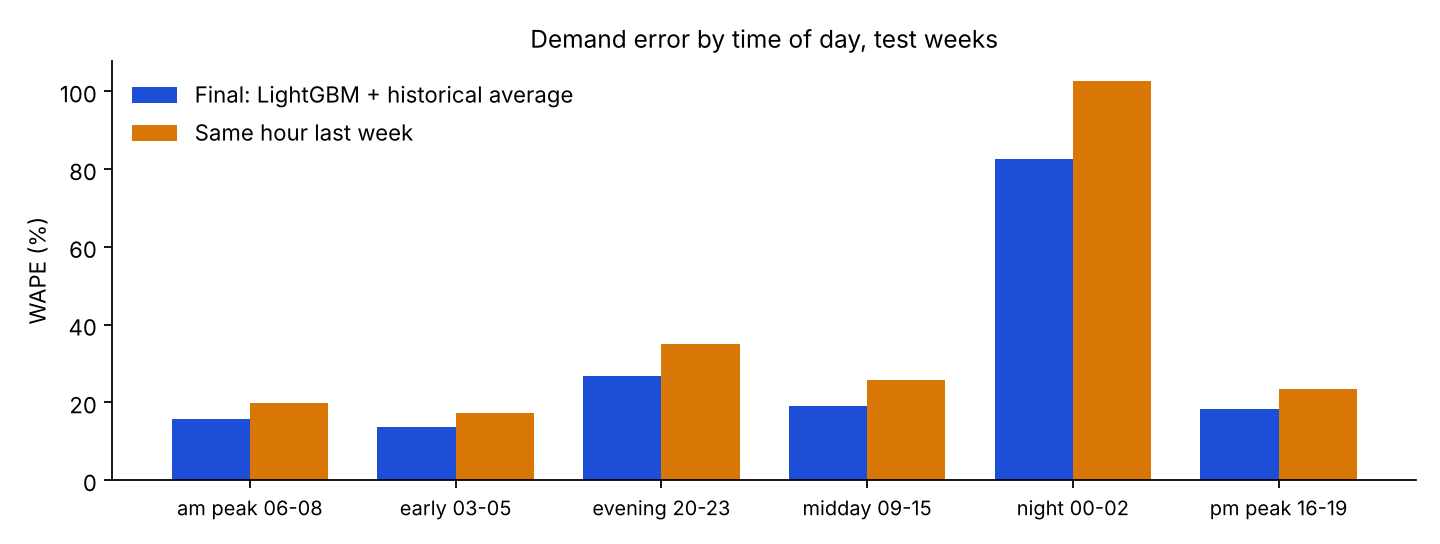
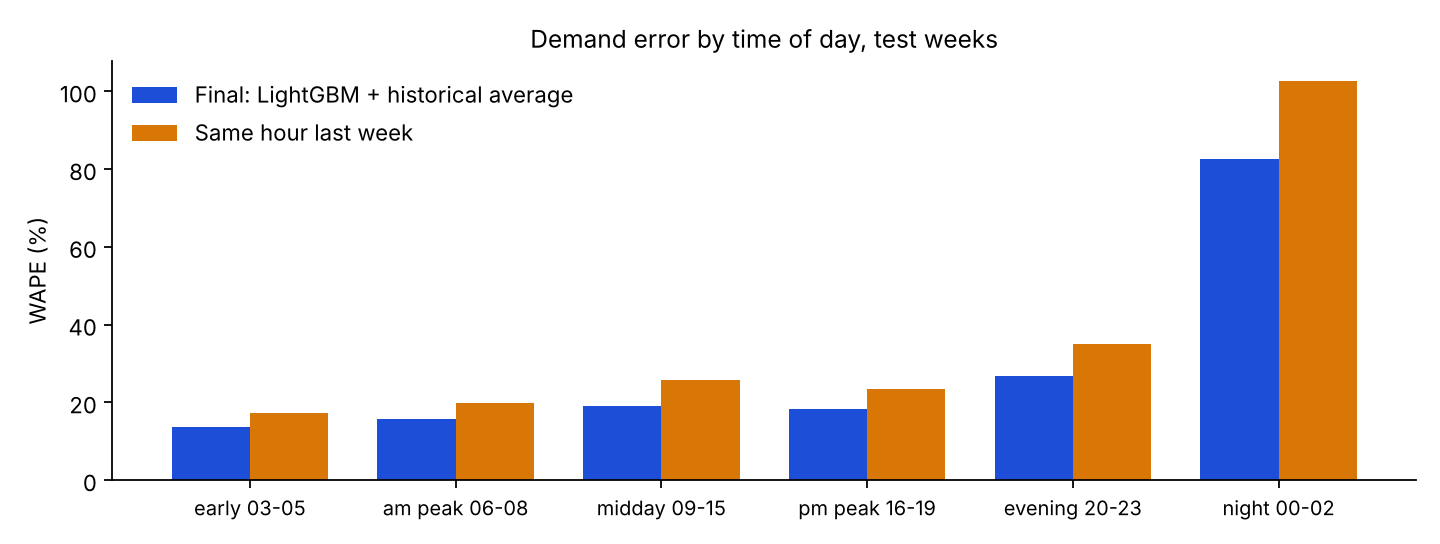
Report and app: chronological time-of-day order, clearer segment labels; README tested versions and backup video
Also notes honestly that at the morning peak and on zero-boarding hours
the historical average or last week is slightly better than the final
forecast (already in the tables).

Claude-Session: https://claude.ai/code/session_01BNmSxnJkkJYvHPob8z9Rs7

diff --git a/src/transit/report.py b/src/transit/report.py
@@ -27,6 +27,15 @@ NAMES = {"ensemble": "Final: LightGBM + historical average", "model": "LightGBM 
          "seasonal_naive": "Same hour last week",
          "dow4_mean": "Mean of last 4 same weekdays", "hist_average": "Historical average"}
 ORDER = ["ensemble", "model", "seasonal_naive", "dow4_mean", "hist_average"]
+PERIOD_ORDER = ["early 03-05", "am peak 06-08", "midday 09-15", "pm peak 16-19", "evening 20-23", "night 00-02"]
+SEG_LABELS = {"True": "regular cell", "False": "non-regular cell"}
+
+
+def ordered(keys) -> list:
+    keys = list(keys)
+    if set(keys) <= set(PERIOD_ORDER):
+        return [k for k in PERIOD_ORDER if k in keys]
+    return keys
 COL = {"ensemble": "#1d4ed8", "model": "#60a5fa", "seasonal_naive": "#d97706", "dow4_mean": "#059669", "hist_average": "#7c3aed"}
 
 
@@ -61,7 +70,7 @@ def fig_wape(metrics: dict) -> None:
 
 def fig_periods(metrics: dict) -> None:
     seg = metrics["targets"]["demand"]["segments_test"]["period"]
-    cats = list(seg["ensemble"])
+    cats = ordered(seg["ensemble"])
     x = np.arange(len(cats))
     fig, ax = plt.subplots(figsize=(9, 3.4))
     for i, k in enumerate(("ensemble", "seasonal_naive")):
@@ -194,8 +203,8 @@ def main() -> None:
 
     def segtab(s):
         rows = ["| Segment | Rows | Final WAPE | Historical avg WAPE | Last-week WAPE |", "| --- | --- | --- | --- | --- |"]
-        for k in s["ensemble"]:
-            rows.append(f"| {k} | {s['ensemble'][k]['n']:,} | {pct(s['ensemble'][k]['wape'])} | "
+        for k in ordered(s["ensemble"]):
+            rows.append(f"| {SEG_LABELS.get(k, k)} | {s['ensemble'][k]['n']:,} | {pct(s['ensemble'][k]['wape'])} | "
                         f"{pct(s['hist_average'][k]['wape'])} | {pct(s['seasonal_naive'][k]['wape'])} |")
         return "\n".join(rows)
 
@@ -298,7 +307,7 @@ Route-directions with the largest total absolute error (final forecast):
 | --- | --- | --- | --- | --- |
 {chr(10).join(f"| {r['route']} | {r['direction']} | {int(r['rows'])} | {pct(r['wape'])} | {pct(r['share_of_total_error'])} |" for r in worst_rd)}
 
-Hours with zero recorded boardings ({zero.get('ensemble', {}).get('n', 0):,} test rows): model MAE
+Hours with zero recorded boardings ({zero.get('ensemble', {}).get('n', 0):,} test rows): final-forecast MAE
 {zero.get('ensemble', {}).get('mae', float('nan')):.2f}, last-week MAE {zero.get('seasonal_naive', {}).get('mae', float('nan')):.2f}.
 
 ![Example](figures/example_route_day.png)

diff --git a/app/streamlit_app.py b/app/streamlit_app.py
@@ -175,7 +175,8 @@ def page_comparison(metrics: dict) -> None:
     c1, c2 = st.columns(2)
     for col, key, title in ((c1, "period", "WAPE by time of day"), (c2, "volume_tercile", "WAPE by route volume")):
         s = seg[key]
-        cats = list(s["ensemble"])
+        order = ["early 03-05", "am peak 06-08", "midday 09-15", "pm peak 16-19", "evening 20-23", "night 00-02"]
+        cats = [c for c in order if c in s["ensemble"]] if key == "period" else list(s["ensemble"])
         fig = go.Figure([go.Bar(name=NAMES[p], x=cats, y=[s[p][c]["wape"] for c in cats],
                                 marker_color=COLOURS[p]) for p in ("ensemble", "hist_average", "seasonal_naive")])
         fig.update_layout(barmode="group", height=320, title=title, yaxis_tickformat=".0%",

diff --git a/README.md b/README.md
@@ -52,7 +52,7 @@ Full provenance, licence and column definitions are in [docs/DATA.md](docs/DATA.
 
 ## Quick start
 
-Requires Python 3.10 or newer. Works in Google Colab, on Linux, and on Windows (PowerShell).
+Requires Python 3.10 or newer. Works in Google Colab, on Linux, and on Windows (PowerShell). Tested with Python 3.11, 3.12 (GitHub Actions) and 3.13; pandas 2.2 and 3.0; LightGBM 4.7, scikit-learn 1.9, Streamlit 1.66.
 
 ```bash
 git clone https://github.com/jayvaghela779/cs3011-public-transport-demand-occupancy.git
@@ -72,7 +72,7 @@ python -m transit.models.run
 # 4. Write reports/RESULTS.md and figures (stops if numbers disagree)
 python -m transit.report
 
-# 5. Run the tests (68), then the dashboard
+# 5. Run the tests, then the dashboard
 pytest
 streamlit run app/streamlit_app.py
 ```
@@ -81,7 +81,7 @@ The dashboard reads only committed files, so `pip install -r requirements.txt` a
 
 ## Deployment (free)
 
-On [Streamlit Community Cloud](https://share.streamlit.io): sign in with GitHub, choose **Create app**, pick this repository, branch `main`, main file `app/streamlit_app.py`, then deploy. The app sleeps after 12 hours without visitors; open it about 30 minutes before a demo to wake it. **Fallback:** run it locally with the command above. A recorded demo video is the last resort.
+On [Streamlit Community Cloud](https://share.streamlit.io): sign in with GitHub, choose **Create app**, pick this repository, branch `main`, main file `app/streamlit_app.py`, then deploy. The app sleeps after 12 hours without visitors; open it about 30 minutes before a demo to wake it. **Fallback:** run it locally with the command above. A recorded 68-second walkthrough of all five pages is the last resort; keep it on the demo laptop.
 
 Raw files are cached in `data/raw/` and are never committed.
 

diff --git a/reports/RESULTS.md b/reports/RESULTS.md
@@ -58,12 +58,12 @@ last week 25.68%. Blend weights tried on validation:
 
 | Segment | Rows | Final WAPE | Historical avg WAPE | Last-week WAPE |
 | --- | --- | --- | --- | --- |
-| am peak 06-08 | 21,333 | 15.75% | 15.65% | 19.82% |
 | early 03-05 | 9,318 | 13.80% | 13.99% | 17.34% |
-| evening 20-23 | 22,401 | 26.72% | 27.13% | 35.00% |
+| am peak 06-08 | 21,333 | 15.75% | 15.65% | 19.82% |
 | midday 09-15 | 45,682 | 19.15% | 19.37% | 25.90% |
-| night 00-02 | 2,237 | 82.58% | 83.03% | 102.69% |
 | pm peak 16-19 | 26,964 | 18.25% | 18.65% | 23.50% |
+| evening 20-23 | 22,401 | 26.72% | 27.13% | 35.00% |
+| night 00-02 | 2,237 | 82.58% | 83.03% | 102.69% |
 
 ![By period](figures/demand_wape_by_period.png)
 
@@ -83,8 +83,8 @@ Regular vs non-regular cells (non-regular = observed in an hour the route does n
 
 | Segment | Rows | Final WAPE | Historical avg WAPE | Last-week WAPE |
 | --- | --- | --- | --- | --- |
-| False | 2,254 | 55.83% | 58.26% | 69.16% |
-| True | 125,681 | 18.08% | 18.28% | 23.59% |
+| non-regular cell | 2,254 | 55.83% | 58.26% | 69.16% |
+| regular cell | 125,681 | 18.08% | 18.28% | 23.59% |
 
 Worst test day: 2024-04-21 (final WAPE 32.21%). Best: 2024-04-23
 (15.54%).
@@ -101,7 +101,7 @@ Route-directions with the largest total absolute error (final forecast):
 | 1007 | I | 278 | 14.15% | 0.59% |
 | 1007 | V | 276 | 16.02% | 0.57% |
 
-Hours with zero recorded boardings (5,165 test rows): model MAE
+Hours with zero recorded boardings (5,165 test rows): final-forecast MAE
 2.95, last-week MAE 2.81.
 
 ![Example](figures/example_route_day.png)
